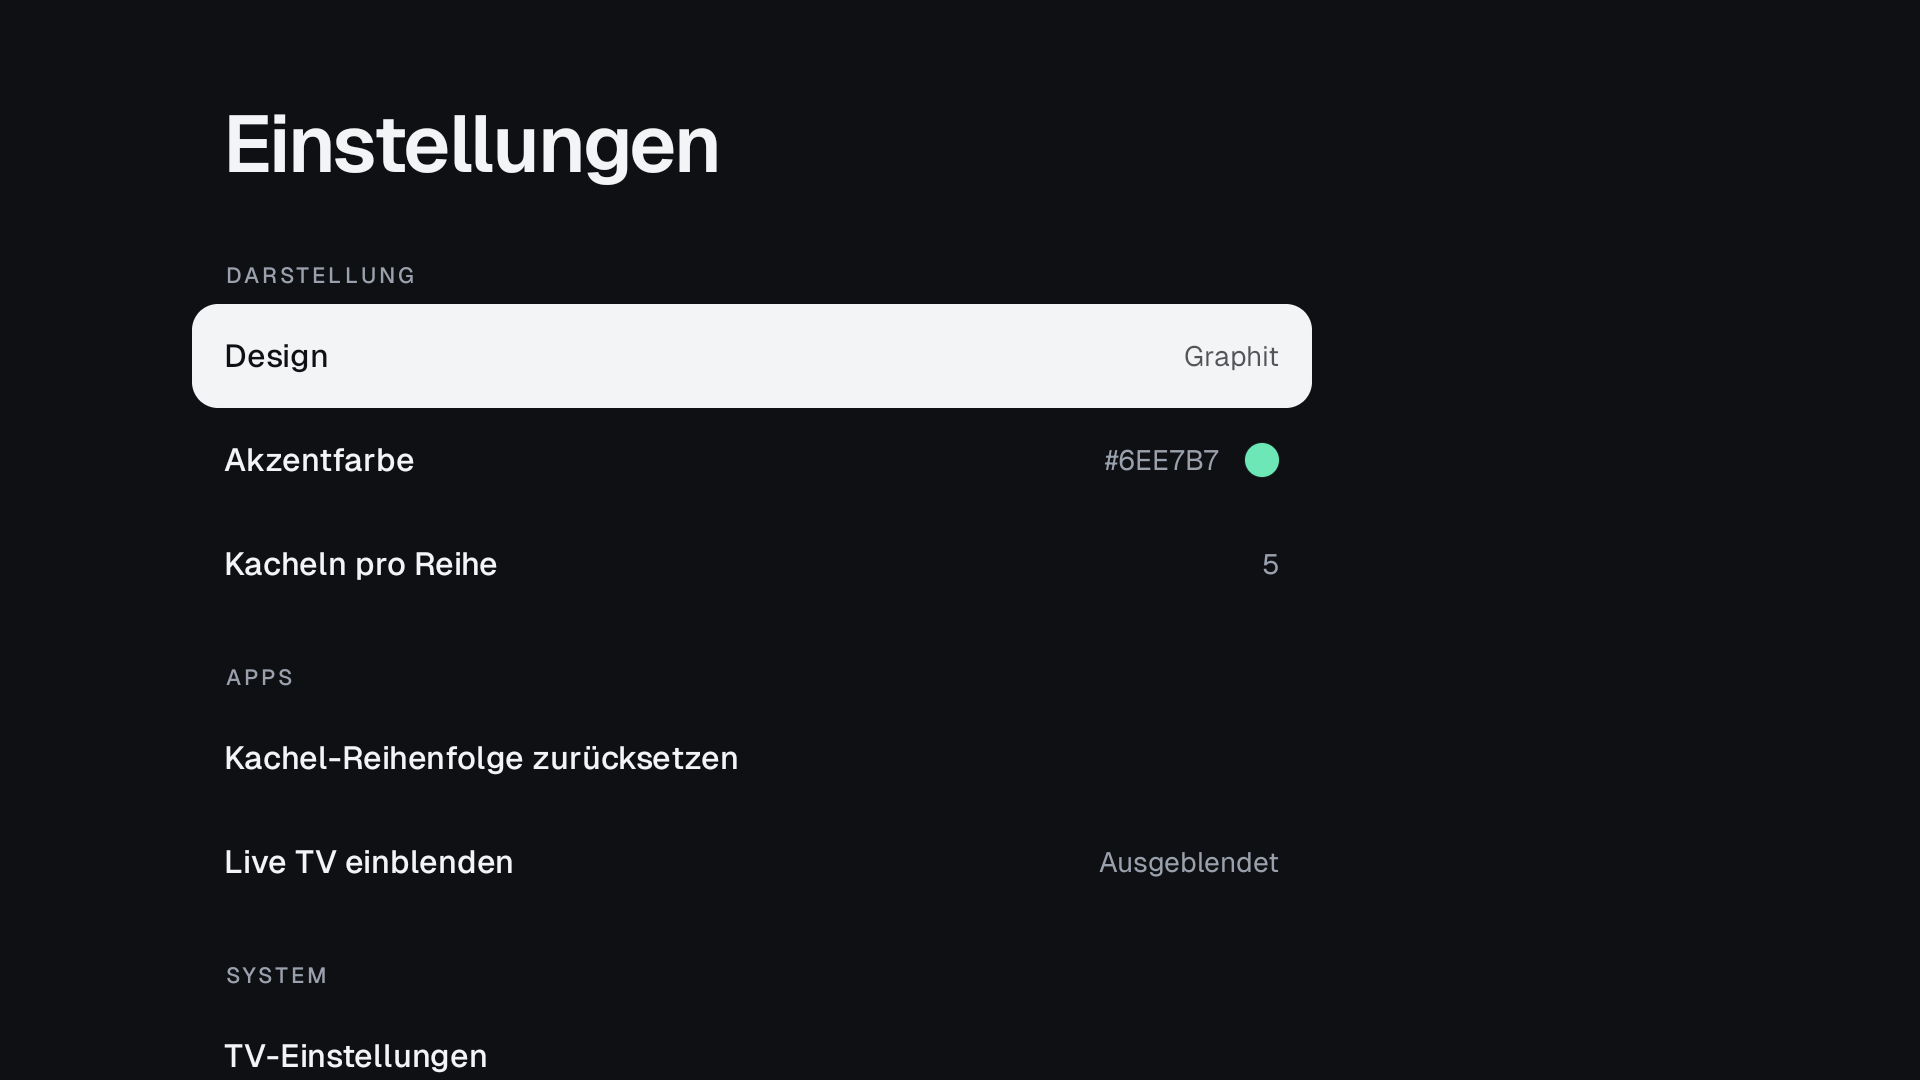
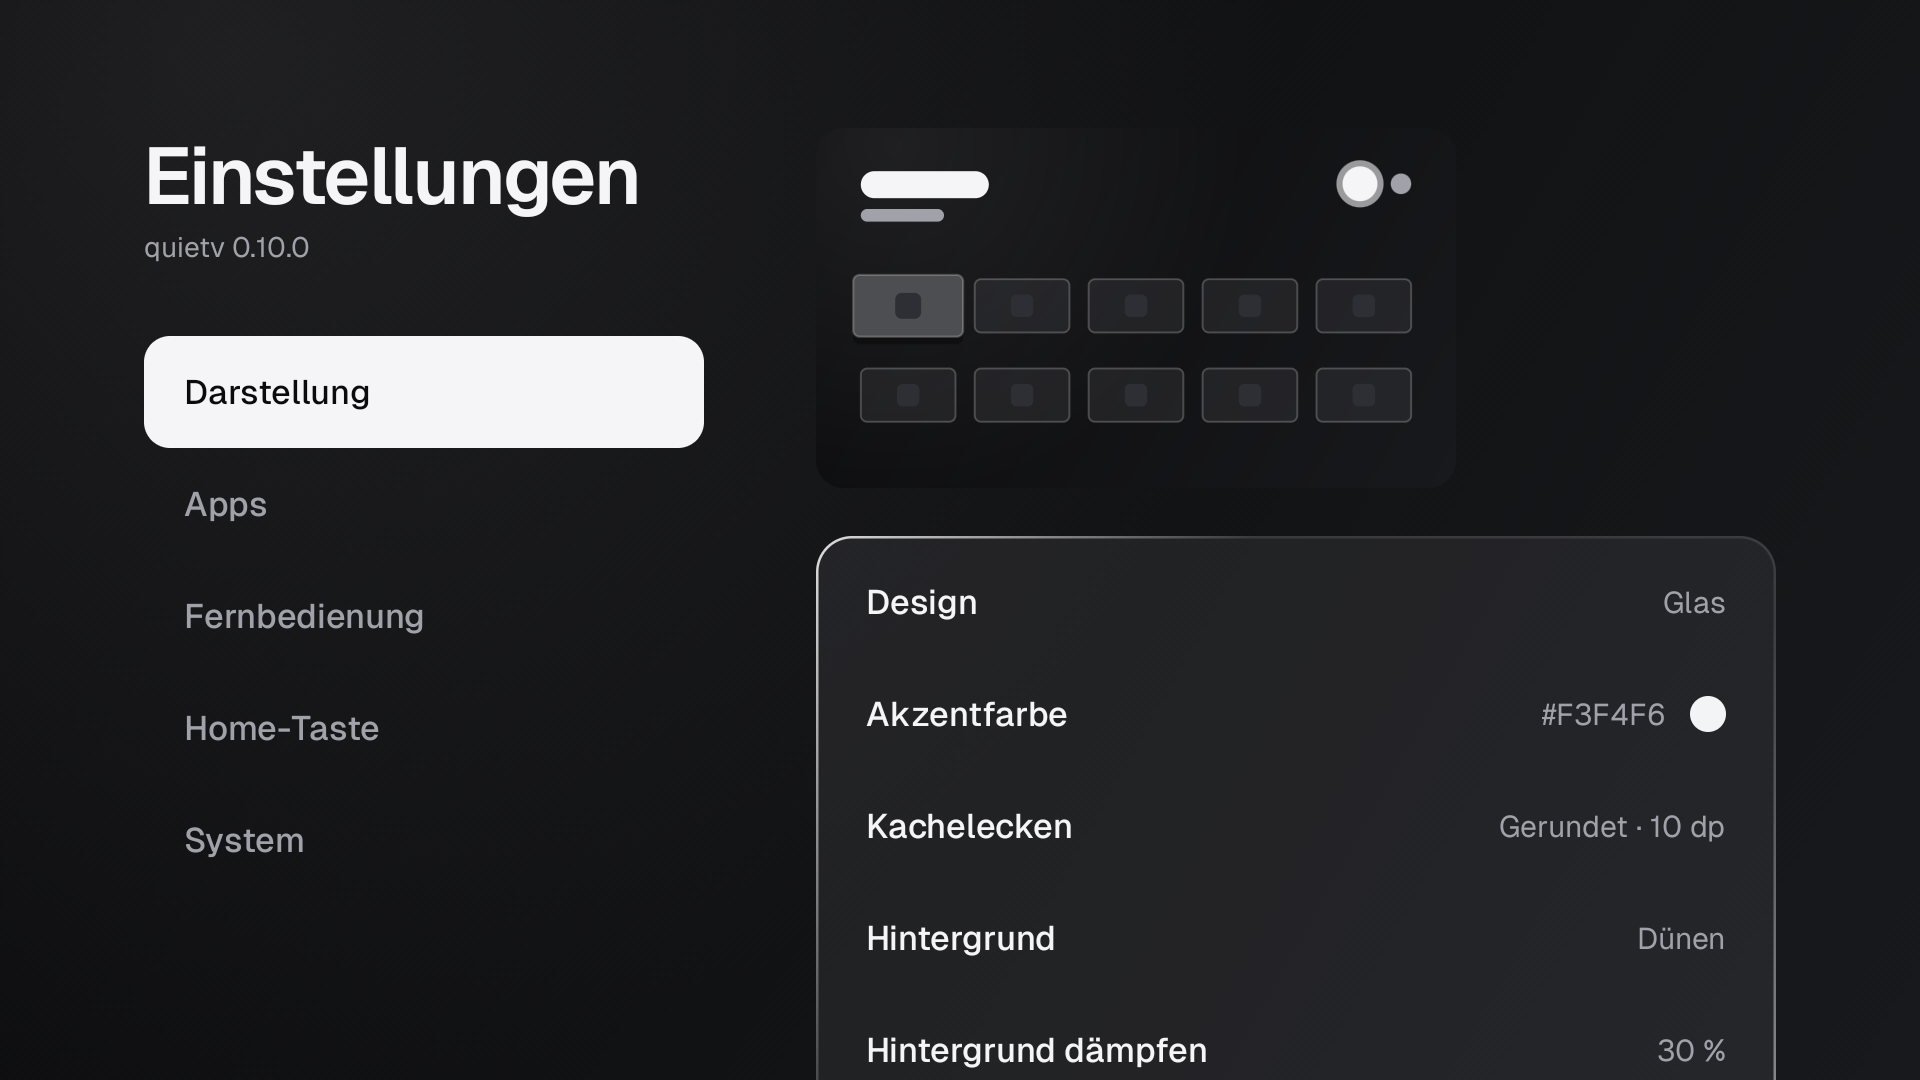
docs: three themes, settings categories, new screenshots, CI debug key
README, store descriptions and docs/themes.md now describe three themes, the settings categories
and the new pickers. The settings and Paper screenshots are replaced by the new settings and the
theme picker. CONTRIBUTING explains the fixed debug key in CI.

diff --git a/docs/themes.md b/docs/themes.md
@@ -1,6 +1,7 @@
 # Themes
 
-quietv comes with three themes. Pick one on the TV (Settings, Theme) or from your computer:
+quietv comes with three themes. Pick one on the TV (Settings, Appearance, Theme) or from your
+computer:
 
 ```bash
 quietv theme list
@@ -13,18 +14,25 @@ quietv theme apply glass
 | `sand` | Light, beige |
 | `glass` | Dark, in the style of Apple TV, see [Glass](#glass) |
 
-On the TV, Settings, Theme shows every theme as a small picture of the home screen, in its own
-colours and with your accent colour and tile corners. The dot marks the theme in use. OK picks the
-focused theme, Back leaves everything as it was.
+On the TV, Settings, Appearance, Theme shows every theme as a small picture of the home screen, in
+its own colours and with your accent colour and tile corners. The dot marks the theme in use. OK
+picks the focused theme, Back leaves everything as it was.
+
+Settings on the TV are sorted into categories on the left: Appearance, Apps, Remote, Home button
+(Fire TV and Google TV) and System. Moving through them shows their settings on the right. Right or
+OK goes in, Left or Back comes back. Appearance has a live picture of the home screen at the top.
+
+The themes Paper, Midnight, Slate and Forest of older versions are gone. A config or theme file that
+still names them keeps working: `paper` becomes Sand, the others Graphite.
 
 Switching themes keeps your accent colour. Between a dark and a light theme it picks the matching
 shade of the same colour.
 
 ## Accent colour
 
-Settings, Accent colour offers twelve colours. Each has a shade for dark and one for light themes,
-and both are easy to read on every bundled theme. While you move between them, the picture above
-shows the home screen with the focused colour. Custom colour has a field for the hex code
+Settings, Appearance, Accent colour offers twelve colours. Each has a shade for dark and one for
+light themes, and both are easy to read on every bundled theme. While you move between them, the
+picture above shows the home screen with the focused colour. Custom colour has a field for the hex code
 (`#RRGGBB`, OK opens the keyboard) and sliders for red, green and blue from 0 to 255: left and
 right change the value, holding the key speeds it up. Field, sliders and preview follow each other.
 If a colour is hard to see on your theme, the picker says so, but lets you keep it. From your
@@ -84,30 +92,32 @@ middle of the screen, where there is only the picture, `--dim` alone decides, so
 
 ## Background
 
-On the TV, Settings, Background opens a list of the theme's colour, four built-in landscapes and
-your own picture, once you have set one: Mountains (dusk), Mountain lake (night), Dunes (sunset) and
-Forest (morning mist). Next to the list a picture of the home screen shows the focused background,
-and the slider below sets the dimming from 0 to 80 percent, with the picture following along. OK
-keeps both, Back leaves everything as it was. The landscapes are drawn by the launcher, no
-download, no photo. In the config they are `wallpaper.scene`: `"mountains"`, `"lake"`, `"dunes"`
-or `"forest"`, with `wallpaper.enabled` set to `true`. An empty scene shows your own picture.
+On the TV, Settings, Appearance, Background opens a list of the theme's colour, four built-in
+landscapes and your own picture, once you have set one: Mountains (dusk), Mountain lake (night),
+Dunes (sunset) and Forest (morning mist). Next to the list a picture of the home screen shows the
+focused background, and the slider below sets the dimming from 0 to 80 percent in steps of 5, with
+the picture following along. OK keeps both, Back leaves everything as it was. Wallpaper dimming in
+the Appearance list opens the same picker with the slider focused. The landscapes are drawn by the
+launcher, no download, no photo. In the config they are `wallpaper.scene`: `"mountains"`, `"lake"`,
+`"dunes"` or `"forest"`, with `wallpaper.enabled` set to `true`. An empty scene shows your own
+picture.
 
 ## Tile corners
 
-Settings, Tile corners opens a slider from 0 (square) to 24 dp with a picture of the home screen
-above it that changes as you move it. OK keeps the value, Back leaves it as it was.
+Settings, Appearance, Tile corners opens a slider from 0 (square) to 24 dp with a picture of the
+home screen above it that changes as you move it. OK keeps the value, Back leaves it as it was.
 
 ## Glass
 
 `glass` looks like Apple TV rather than like the other themes. The focused tile lifts with a soft
 shadow instead of the accent ring, app names only appear under the focused tile, the large title
-above the favourites is left out so the background shows, and Settings groups its rows on cards.
+above the favourites is left out so the background shows, and the cards in Settings are glass.
 Tiles, cards, menus and the search field share a fine light edge, brighter at the top left. The top
 buttons have no frame. Focused, they turn into a white circle with a glow in your accent colour.
-Nothing is blurred and every gradient is drawn once into a picture, so switching between apps is
-as smooth as with the other themes, even on a Fire TV stick. On a landscape
-or your own picture the darkening is a gradient: strong behind the clock and the tiles, light in
-the middle.
+Menus and pickers are opaque, so nothing of the screen behind them shows through. Nothing is
+blurred and every gradient is drawn once into a picture, so switching between apps is as smooth as
+with the other themes, even on a Fire TV stick. On a landscape or your own picture the darkening is
+a gradient: strong behind the clock and the tiles, set by the dimming in the middle.
 
 The colours are neutral: a near-black graphite background with a faint gradient, a soft white light
 at the top left and grey surfaces. Only your accent colour adds a tint.

diff --git a/CHANGELOG.md b/CHANGELOG.md
@@ -14,14 +14,14 @@ and the project uses [Semantic Versioning](https://semver.org).
 
 - Theme `glass` is now a neutral graphite: near black with a soft white light at the top left, grey
   surfaces and lines, instead of indigo and violet.
-- Settings, Theme opens a picker with a small picture of the home screen for every theme, instead
+- Settings, Appearance, Theme opens a picker with a small picture of the home screen for every theme, instead
   of switching to the next theme on each press. You see what you get before you choose.
-- Settings, Accent colour opens a picker with twelve colours (six more than before) and a live
+- Settings, Appearance, Accent colour opens a picker with twelve colours (six more than before) and a live
   preview of the home screen. Custom colour offers a hex field (`#RRGGBB`) and sliders for red, green
   and blue from 0 to 255, and the picker warns when a colour is hard to see on the theme.
-- Settings, Tile corners opens a slider from 0 to 24 dp with a live picture of the home screen,
+- Settings, Appearance, Tile corners opens a slider from 0 to 24 dp with a live picture of the home screen,
   instead of stepping through four fixed shapes.
-- Settings, Background opens a list with a live picture of the home screen and the dimming slider
+- Settings, Appearance, Background opens a list with a live picture of the home screen and the dimming slider
   below it, in 5 % steps up to 80 %, instead of stepping through both settings blind.
 - Glass switches between apps as smoothly as the other themes. Its background gradient is drawn
   once into a picture, and on every theme the wallpaper dimming is drawn into the wallpaper itself,
@@ -33,8 +33,9 @@ and the project uses [Semantic Versioning](https://semver.org).
   Appearance shows a live picture of the home screen. The list keeps room above and below, the
   focused row keeps a margin to the edge of the screen, long names wrap, and hints are plain text.
 - On Glass the wallpaper dimming always shows. The darkening that keeps text readable now only
-  applies behind the clock and the tiles, the middle of the screen follows the dimming setting. Before,
-  a bright picture like Dunes needed more darkening than the setting allowed, so it changed nothing.
+  applies behind the clock and the tiles, the middle of the screen follows the dimming setting.
+  Before, a bright picture like Dunes needed more darkening than the setting allowed, so it changed
+  nothing.
 
 ### Fixed
 

diff --git a/README.md b/README.md
@@ -19,11 +19,11 @@ and replaces the stock home screen with a small, fast launcher: your apps, your 
 |---|---|---|
 | ![App grid](docs/screenshots/apps.png) | ![Tile menu](docs/screenshots/tile-menu.png) | ![Inputs menu](docs/screenshots/inputs.png) |
 
-| Settings | Paper theme |
+| Settings | Themes |
 |---|---|
-| ![Settings](docs/screenshots/settings.png) | ![Paper theme](docs/screenshots/paper.png) |
+| ![Settings](docs/screenshots/settings.png) | ![Theme picker](docs/screenshots/themes.png) |
 
-Screenshots from a CHiQ AI PONT (Android TV 11), taken with `quietv screenshot`.
+Screenshots from a CHiQ AI PONT (Android TV 11) and a Fire TV stick, taken with `quietv screenshot`.
 
 ## Quick start
 
@@ -76,9 +76,11 @@ No computer? See [docs/phone-install.md](docs/phone-install.md).
 - Inputs menu with HDMI ports, AV and Live TV through the TV input framework. It remembers the last one.
 - Search your apps with the remote. Number and colour keys open your favourite apps.
 - A clock screensaver that moves a little every minute: `quietv screensaver on`.
-- Six themes, your own colours, tile corners and an optional wallpaper that stays readable.
+- Three themes (Graphite, Sand, Glass), your own colours, tile corners and an optional wallpaper that
+  stays readable.
   [Themes](docs/themes.md).
-- Settings on the TV: theme, accent colour, tile corners, tiles per row, wallpaper, hidden apps.
+- Settings on the TV, in categories: theme, accent colour (presets, or any colour by hex code or red,
+  green and blue), tile corners and background with a live preview, tiles per row, hidden apps.
 - Clock, date and greeting in [Geist](https://vercel.com/font). English, German, French, Spanish, Italian, Dutch, Polish, Portuguese, Russian, Turkish and Arabic, with right-to-left layouts.
 
 Everything is configurable on the TV. To set up many TVs the same way, keep a JSON file and push it:

diff --git a/CONTRIBUTING.md b/CONTRIBUTING.md
@@ -40,6 +40,12 @@ quietv install --apk app/build/outputs/apk/debug/app-debug.apk
 
 You need JDK 17 and the Android SDK with platform 36 and build tools 36.
 
+CI uploads the debug APK of every run as the artifact `quietv-debug`. If the repository secret
+`QUIETV_DEBUG_KEYSTORE_BASE64` is set, CI signs debug builds with that key (a base64 PKCS12 keystore
+with the alias `androiddebugkey` and the password `android`), so a newer CI build installs over an
+older one with `quietv update --apk`. Without the secret, as in forks, every run makes its own key
+and a new build needs `adb uninstall` first. Debug and release builds always have different keys.
+
 Ideas that fit: themes, a screensaver, app search, translations, remote key shortcuts.
 Ideas that do not fit: recommendation rows, content feeds, ads, telemetry.
 

diff --git a/docs/configuration.md b/docs/configuration.md
@@ -10,7 +10,7 @@ quietv config push my-tv.json     # apply and bring the launcher to the front
 ```
 
 `push` replaces the whole config. Keys you leave out fall back to their defaults. Tile order is stored
-separately and survives a push. Reset it in Settings.
+separately and survives a push. Reset it in Settings, Apps.
 
 ## Example
 
